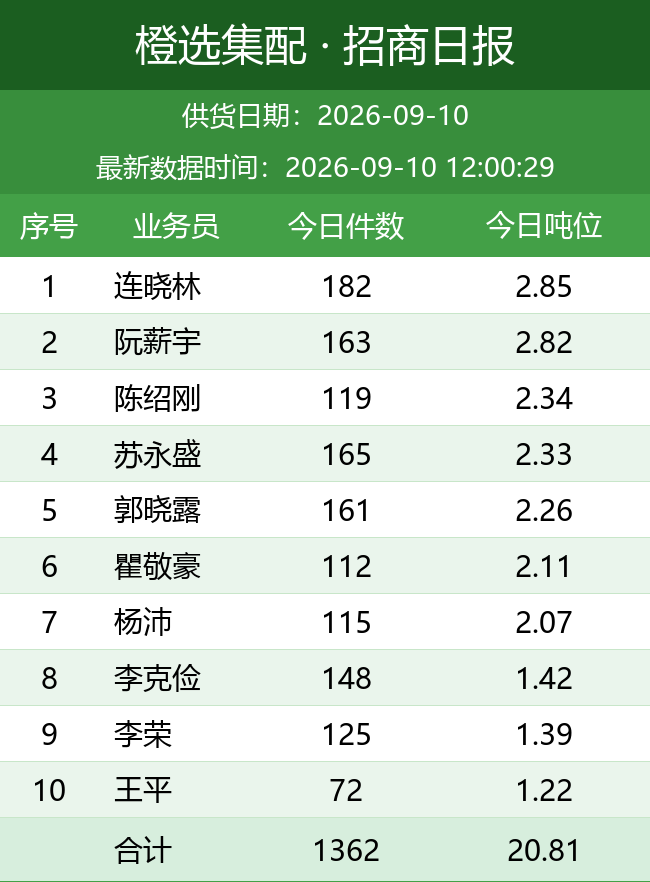
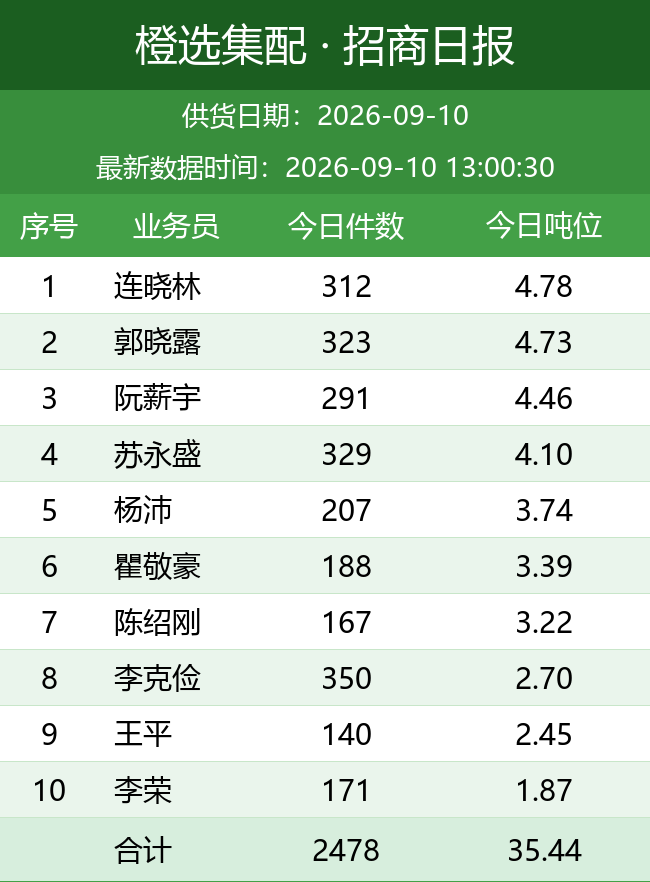
自动更新日报图片

diff --git a/index.html b/index.html
@@ -11,7 +11,7 @@ img { max-width: 100%; border: 1px solid #e5e5e5; margin-bottom: 24px; display: 
 </style>
 </head>
 <body>
-<h1>橙选集配日报图片（20260910_120034）</h1>
+<h1>橙选集配日报图片（20260910_130037）</h1>
 <img src="bd_latest.png" alt="BD 日报">
 <img src="wh_latest.png" alt="城市仓日报">
 <img src="zs_latest.png" alt="招商日报">
